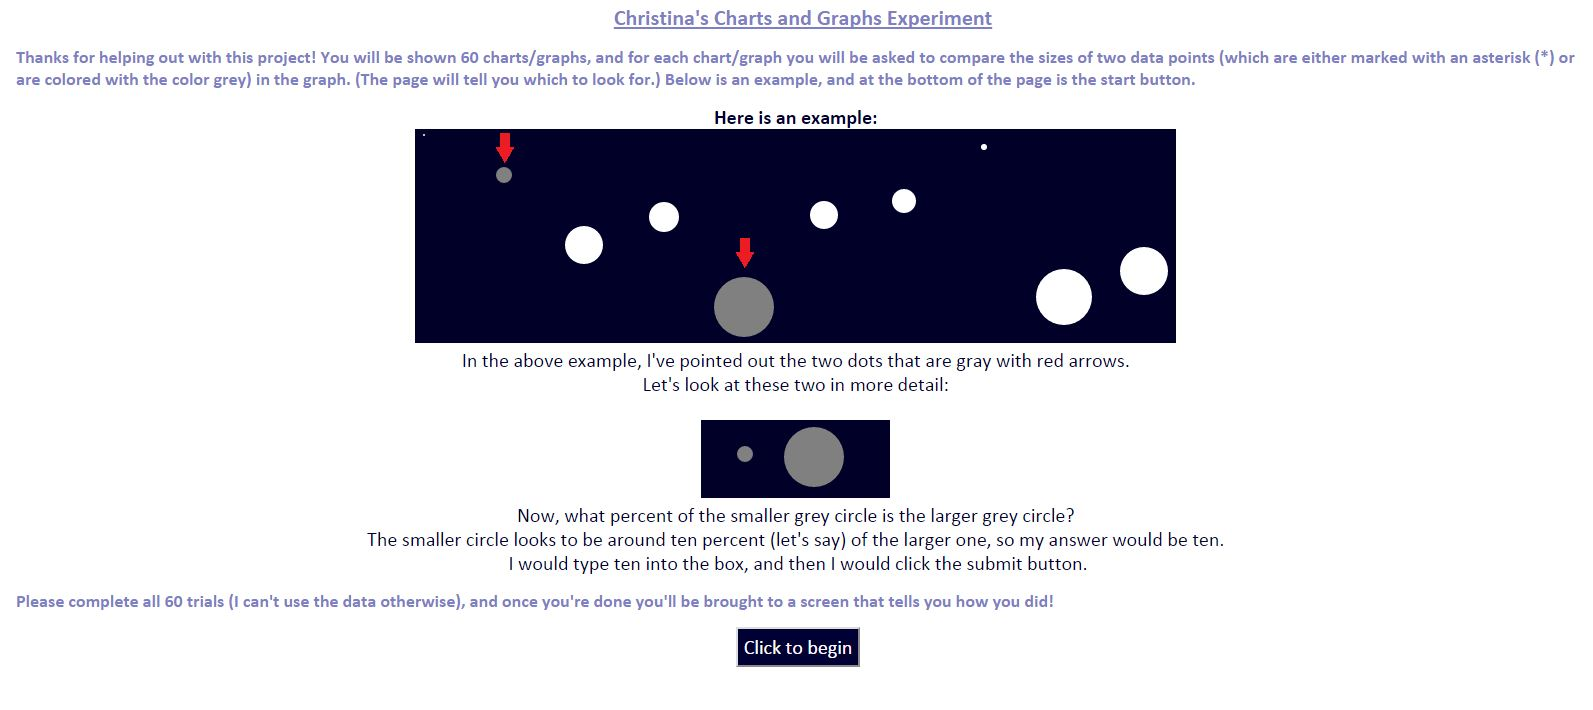
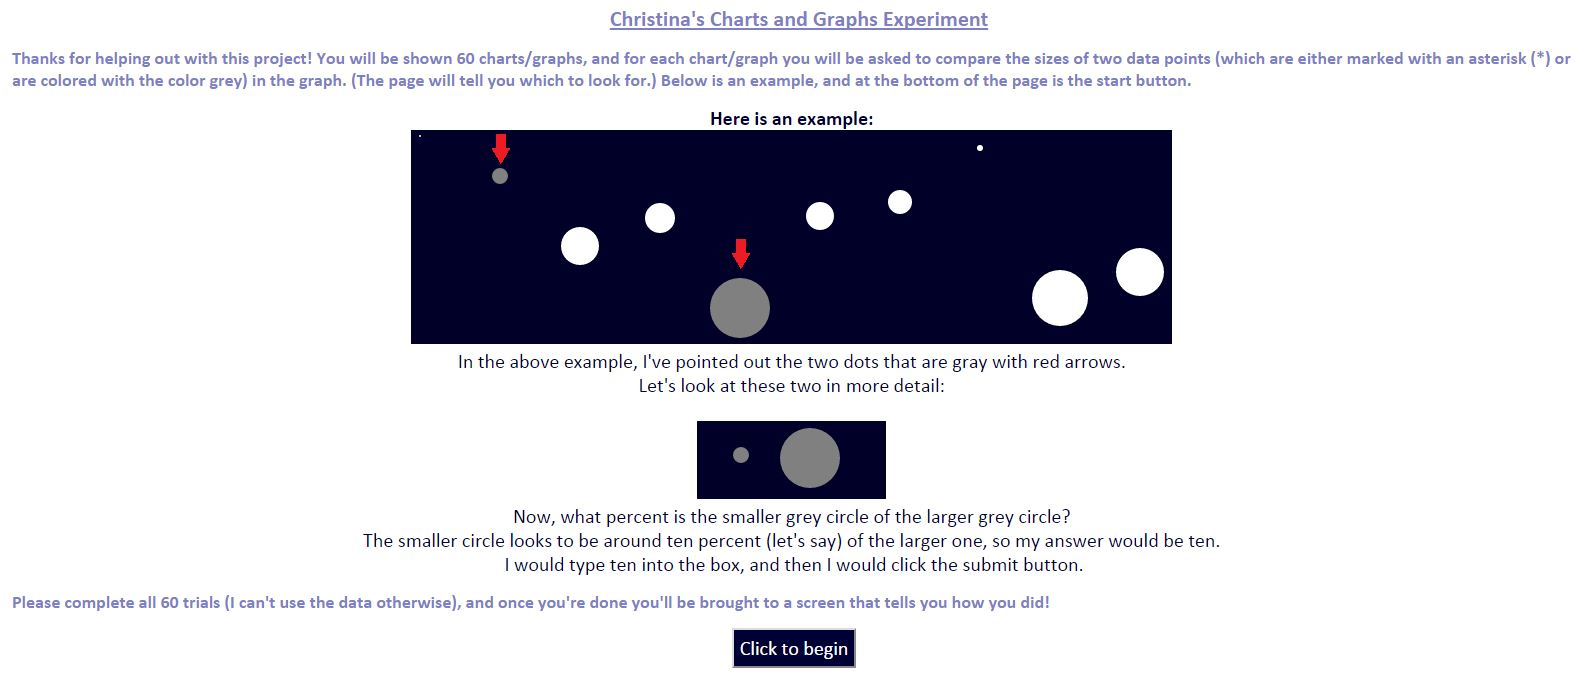
Fixed typo on index page and updated screenshot for index page

diff --git a/index.html b/index.html
@@ -25,7 +25,7 @@
 	  <br>Let's look at these two in more detail:
 	  <br><br>
 	  <img src="img/example2.png">
-	  <br>Now, what percent of the smaller grey circle is the larger grey circle?
+	  <br>Now, what percent is the smaller grey circle of the larger grey circle?
 	  <br>
 	  The smaller circle looks to be around ten percent (let's say) of the larger one, so my answer would be ten.
 	  <br>
